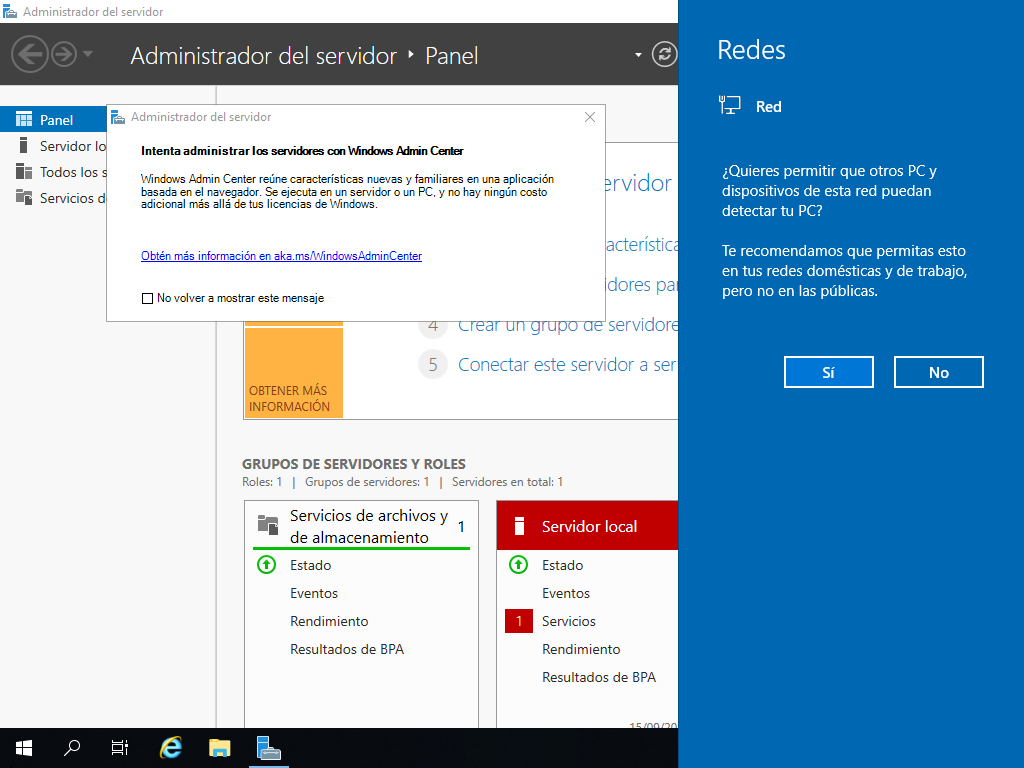
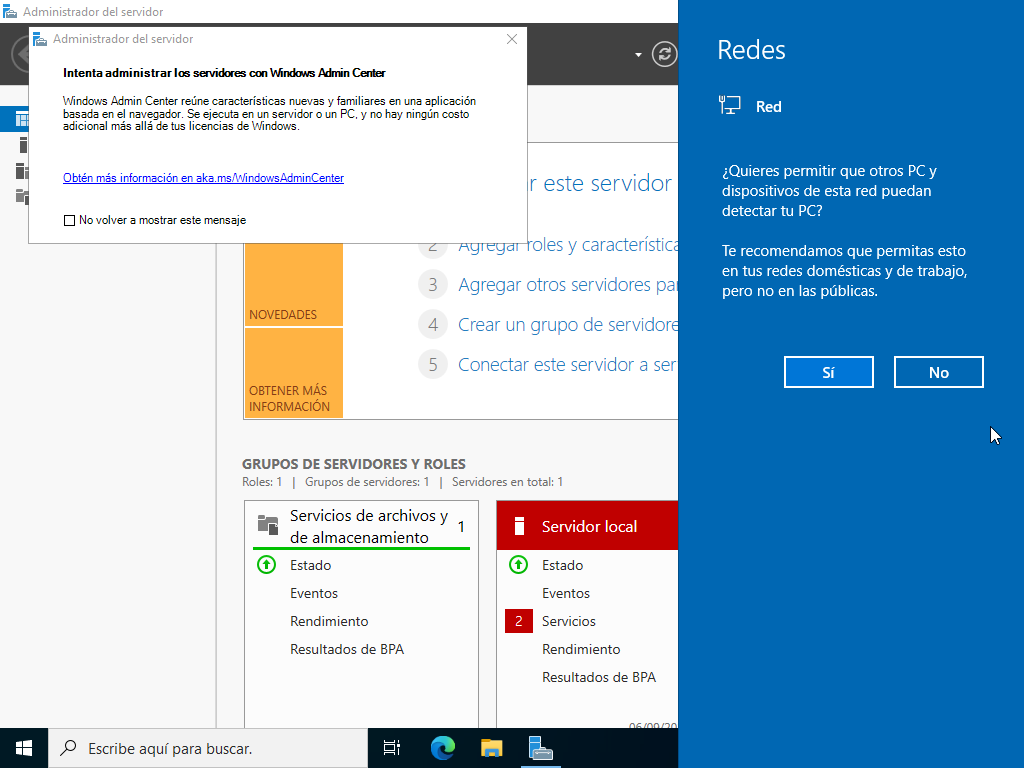
Cambiando windows server 2019 por 2022
Cambiadas algunas capturas y parte del texto

diff --git a/temas_comunes/windows_server/Windows_Server.tex b/temas_comunes/windows_server/Windows_Server.tex
@@ -1,21 +1,21 @@
 \chapter{Un poco de historia}
 
-Windows Server es la línea de productos de Microsoft \textbf{enfocada a servidores} que se inició con la primera versión: Windows 2000.
+Windows Server es la línea de productos de Microsoft \textbf{enfocada a servidores} que se inició con la primera versión: Windows Server 2003.
 
 Anteriormente, Microsoft contaba con una línea también dedicada a estaciones de trabajo y servidores en red cuyo nombre era Windows NT, por lo que se puede considerar que \textbf{Windows Server es la continuación de NT} con el cambio de nombre.
 
-Las versiones más importantes han sido, sin contar las denominadas NT:
-\begin{itemize}
-    \item Windows 2000.
-    \item Windows Server 2003.
-    \item Windows Server 2008.
-    \item Windows Server 2012.
-    \item Windows Server 2016.
-    \item Windows Server 2019.
-\end{itemize}
+%Las versiones más importantes han sido, sin contar las denominadas NT:
+%\begin{itemize}
+%    \item Windows 2000.
+%    \item Windows Server 2003.
+%    \item Windows Server 2008.
+%    \item Windows Server 2012.
+%    \item Windows Server 2016.
+%    \item Windows Server 2019.
+%\end{itemize}
 
-\chapter{Proceso de instalación de Windows Server 2019}
-Para realizar la instalación de Windows Server 2019 necesitaremos el medio desde el que realizaremos la instalación. Microsoft permite la descarga desde su \href{https://www.microsoft.com/es-es/evalcenter/evaluate-windows-server-2019}{página oficial} una evaluación de 180 días que podremos descargar en varios formatos:
+\chapter{Proceso de instalación de Windows Server 2022}
+Para realizar la instalación de Windows Server 2022 necesitaremos el medio desde el que realizaremos la instalación. Microsoft permite la descarga desde su \href{https://www.microsoft.com/es-es/evalcenter/evaluate-windows-server-2022}{página oficial} una evaluación de 180 días que podremos descargar en varios formatos:
 
 \begin{itemize}
     \item \textbf{Azure}: Es el sistema “en la nube” de Microsoft. Se puede probar Windows Server a través de una cuenta gratuita y posteriormente gestionar los sistemas virtualizados que se creen en la nube.
@@ -65,7 +65,7 @@ Dado que estos son los requisitos mínimos, nuestra máquina virtual deberá cum
 Por tanto, antes de realizar la instalación, deberemos confirmar que conocemos para qué se va a utilizar el servidor, cuántos servicios se van a utilizar y la carga esperada.
 
 \hypertarget{instalar_windows_server}{}
-\section{Instalación de Windows Server 2019}
+\section{Instalación de Windows Server 2022}
 El asistente de instalación de Windows Server nos va a llevar por una serie de pasos que detallaremos a continuación.
 \warnbox{Nos aseguramos que la máquina virtual arranque desde la ISO}
 
@@ -88,15 +88,15 @@ Antes de realizar la descarga de la ISO hemos elegido el idioma español, por lo
     \hfill
     \begin{minipage}{0.36\linewidth}
             \vspace{-11pt}
-            \includegraphics[trim={202 155 203 155},clip,width=\linewidth]{1_instalacion.png}
+            \includegraphics[width=\linewidth]{1_instalacion.png}
     \end{minipage}
 }
 
 \subsection{Elección del sistema operativo}
-Windows Server 2019 tiene distintos modos a la hora de ser instalado, tal como podemos ver en la siguiente captura de pantalla del proceso de instalación:
+Windows Server 2022 tiene distintos modos a la hora de ser instalado, tal como podemos ver en la siguiente captura de pantalla del proceso de instalación:
 \begin{center}
     \vspace{-10pt}
-    \includegraphics[trim={188 180 195 107},clip,width=10cm]{2_instalacion.png}
+    \includegraphics[width=10cm]{2_instalacion.png}
     \vspace{-20pt}
 \end{center}
 
@@ -107,7 +107,7 @@ Existen dos opciones principales a la hora de elegir, ya que cada una de ellas p
     \item \textbf{Datacenter Evaluation}: No habrá límite a la hora de crear máquinas virtuales con un host Hyper-V por cada licencia.
 \end{itemize}
 
-Existen más diferencias, y es por eso que Microsoft tiene una página dedicada con la \href{https://docs.microsoft.com/es-es/windows-server/get-started/editions-comparison-windows-server-2019}{comparación de ambas versiones}. Por lo tanto, antes de realizar la instalación para nuestro sistema, debemos realizar una estimación de los requisitos para así poder elegir de manera adecuada.
+Existen más diferencias, y es por eso que Microsoft tiene una página dedicada con la \href{https://docs.microsoft.com/es-es/windows-server/get-started/editions-comparison-windows-server-2022}{comparación de ambas versiones}. Por lo tanto, antes de realizar la instalación para nuestro sistema, debemos realizar una estimación de los requisitos para así poder elegir de manera adecuada.
 
 Nosotros vamos a elegir la versión “Standard Evaluation” con experiencia de escritorio ya que podremos realizar la configuración desde el propio servidor. Dependiendo del caso, habrá que analizar cuál es la mejor opción antes de realizar la instalación.
 
@@ -117,7 +117,7 @@ Al darle a “Siguiente” nos aparecerán los términos de la licencia.
 Tras aceptar la licencia nos aparecerá el tipo de instalación que deseamos realizar:
 \begin{center}
     \vspace{-10pt}
-    \includegraphics[trim={188 180 195 107},clip,width=10cm]{3_instalacion.png}
+    \includegraphics[width=10cm]{3_instalacion.png}
     \vspace{-10pt}
 \end{center}
 
@@ -125,6 +125,10 @@ Tras aceptar la licencia nos aparecerá el tipo de instalación que deseamos rea
     \item \textbf{Actualización}: Para realizar actualizaciones sobre sistemas compatibles ya instalados.
     \item \textbf{Personalizada}: Tal como indica la imagen anterior, los archivos, las configuraciones y las aplicaciones no se migran. En caso de realizar una instalación nueva (como en nuestro caso), \textbf{utilizaremos esta opción}.
 \end{itemize}
+
+Debemos tener en cuenta cuál es la situación en la que nos encontramos y decidir cuál es la mejor opción de las que se nos ofrece. Por eso es importante realizar la lectura de cada opción que nos aparece en todos los pasos de la instalación. Y más cuando se trata de la instalación de un sistema operativo de servidor
+
+\warnbox{\textbf{Es importante leer qué nos indica cada paso durante la instalación}}
 
 \subsection{Particionado de discos duros}
 Dado que nuestra máquina virtual es nueva, y no tiene ningún sistema operativo previo, vamos a tener que realizar la instalación en el disco duro que se ha añadido a la máquina virtual.
@@ -139,17 +143,16 @@ Dependiendo del tamaño que hayamos elegido, o incluso los discos duros que teng
     \hfill
     \begin{minipage}{0.36\linewidth}
         \vspace{-11pt}
-        \includegraphics[trim={188 180 195 107},clip,width=\linewidth]{4_instalacion.png}
+        \includegraphics[width=\linewidth]{4_instalacion.png}
     \end{minipage}
 }
 
 
 \subsection{Terminar el proceso de instalación}
-
 \begin{wrapfigure}{r}{0.36\linewidth}
     \centering
     \vspace{-20pt}
-    \includegraphics[trim={188 180 195 107},clip,width=\linewidth]{5_instalacion.png}
+    \includegraphics[width=\linewidth]{5_instalacion.png}
 \end{wrapfigure}
 Tras haber seleccionado y haber completado todos los pasos que se han descrito hasta ahora, el proceso de instalación comenzará.
 
@@ -178,15 +181,15 @@ Una vez realizada la instalación conviene retirar la imagen ISO del sistema de 
 
 Tras el primer arranque nos aparecerá la siguiente pantalla para realizar el login con el usuario Administrador, en donde introduciremos la contraseña que hemos puesto en el paso anterior. Una vez introducida, la siguiente pantalla será la pantalla de inicio donde podremos ver el panel de administrador del servidor.
 
-\begin{tcolorbox}[title=Windows Server 2019 recién instalado,colback=white]
+\begin{tcolorbox}[title=Windows Server 2022 recién instalado,colback=white]
     \includegraphics[width=0.48\linewidth]{7_instalacion.png}
     \hfill
     \includegraphics[width=0.48\linewidth]{8_instalacion.png}
 \end{tcolorbox}
 
 
-\chapter{Windows Server 2019 como servidor de red}
-Windows Server 2019 tras la instalación no es más que un sistema operativo “normal”, que potencialmente se puede convertir en un Sistema Operativo de red, con funcionalidad para administrar usuarios, creación de grupos, permisos, … Para realizar estas funciones debemos de configurar el Sistema Operativo.
+\chapter{Windows Server 2022 como servidor de red}
+Windows Server 2022 tras la instalación no es más que un sistema operativo “normal”, que potencialmente se puede convertir en un Sistema Operativo de red, con funcionalidad para administrar usuarios, creación de grupos, permisos, … Para realizar estas funciones debemos de configurar el Sistema Operativo.
 
 Como se ha observado, durante la instalación del Sistema Operativo apenas se realizan preguntas, por lo que es el propio instalador el que ha tomado ciertas decisiones por nosotros, como son:
 
@@ -435,7 +438,7 @@ El equipo Windows 10 Pro deberá estar situado en la misma red del Windows Serve
 
 Es recomendable modificar el nombre del equipo para que posteriormente sea más fácil de encontrarlo dentro del Active Directory, ya que el nombre por defecto de instalación es aleatorio. Para realizar el cambio, podremos seguir los \hyperlink{cambiar_nombre_equipo}{pasos indicados previamente para Windows Server}, y en este caso elegiremos el nombre “win10”.
 
-Y por último, en la configuración de red del equipo Windows 10 configuraremos el servidor DNS preferido para que sea la IP del Windows Server 2019. Este cambio se podría realizar de manera automática si modificamos la configuración del DHCP de la red.
+Y por último, en la configuración de red del equipo Windows 10 configuraremos el servidor DNS preferido para que sea la IP del Windows Server 2022. Este cambio se podría realizar de manera automática si modificamos la configuración del DHCP de la red.
 
 \begin{center}
     \includegraphics[trim={20 90 21 287},clip,width=0.5\linewidth]{windows_10_2.png}
@@ -444,7 +447,7 @@ Y por último, en la configuración de red del equipo Windows 10 configuraremos 
 \section{Añadir el equipo al dominio}
 Tras realizar los pasos previos, para añadir un equipo a un dominio de Active Directory tendremos que ir a la \textbf{Propiedades del Sistema} de Windows (dependiendo de la versión de Windows se puede llegar a esta pantalla de varias maneras).
 
-Le daremos a “Cambiar”. Si no hemos cambiado el nombre al equipo, podremos hacerlo en la nueva ventana, y a la par seleccionaremos el “Dominio” que hemos creado previamente, le daremos a “Aceptar” y nos aparecerá una nueva ventana donde \textbf{introduciremos el usuario “Administrador” y contraseña del Windows Server 2019}.
+Le daremos a “Cambiar”. Si no hemos cambiado el nombre al equipo, podremos hacerlo en la nueva ventana, y a la par seleccionaremos el “Dominio” que hemos creado previamente, le daremos a “Aceptar” y nos aparecerá una nueva ventana donde \textbf{introduciremos el usuario “Administrador” y contraseña del Windows Server 2022}.
 
 {
     \begin{minipage}{0.3\linewidth}
@@ -460,7 +463,7 @@ Le daremos a “Cambiar”. Si no hemos cambiado el nombre al equipo, podremos h
     \end{minipage}
 }
 
-El equipo se conectará al servidor Windows Server 2019, comprobará que los datos son correctos, añadirá el equipo al Active Directory y nos pedirá reiniciar.
+El equipo se conectará al servidor Windows Server 2022, comprobará que los datos son correctos, añadirá el equipo al Active Directory y nos pedirá reiniciar.
 
 
 \section{Diferenciar usuario local y usuario de Active Directory}
@@ -975,8 +978,8 @@ Tal como se puede ver en la imagen, contamos con dos servidores para el dominio 
 
 Por otro lado, en lo referente a los equipos, la configuración debe ser igual: deben de tener como DNS principal uno de los servidores y como DNS secundario el otro . De esta manera, si el servidor que actúa como DNS principal cae, los equipos realizarán las peticiones al otro servidor. Esta modificación de DNS lo habitual es que se realice mediante el servidor DHCP en lugar de ir equipo por equipo (ya que es una tarea tediosa y fácilmente automatizable).
 
-\chapter{Copias de seguridad en Windows Server 2019}
-Windows Server 2019 no tiene instalado por defecto la característica de copias de seguridad, por lo que deberemos instalarla. Para ello abriremos el “Administrador del Servidor”, le daremos a “Agregar Roles y Características”, iremos hasta el apartado de características y seleccionaremos la opción de “Copias de seguridad de Windows Server”:
+\chapter{Copias de seguridad en Windows Server 2022}
+Windows Server 2022 no tiene instalado por defecto la característica de copias de seguridad, por lo que deberemos instalarla. Para ello abriremos el “Administrador del Servidor”, le daremos a “Agregar Roles y Características”, iremos hasta el apartado de características y seleccionaremos la opción de “Copias de seguridad de Windows Server”:
 
 \begin{center}
     \vspace{-20pt}
